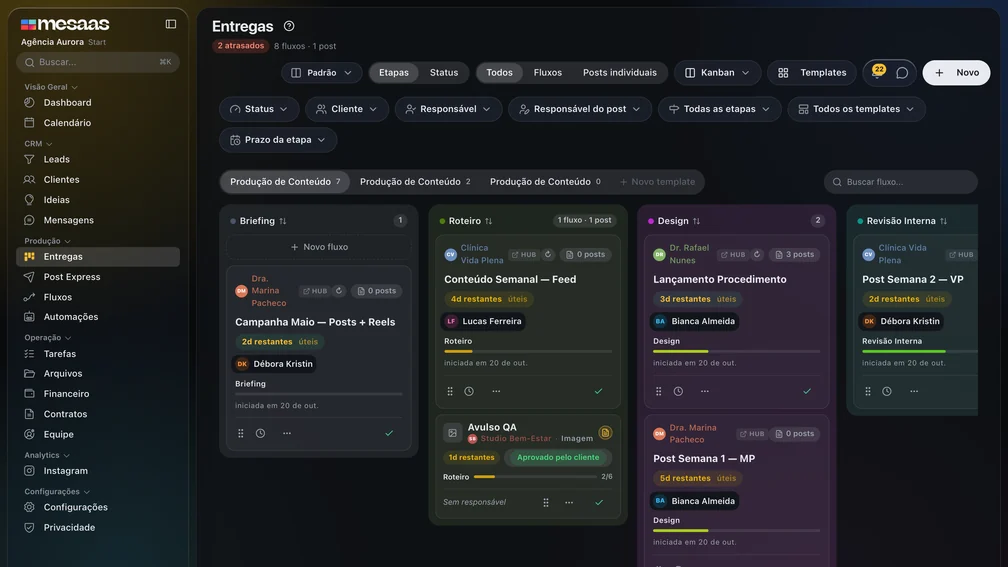
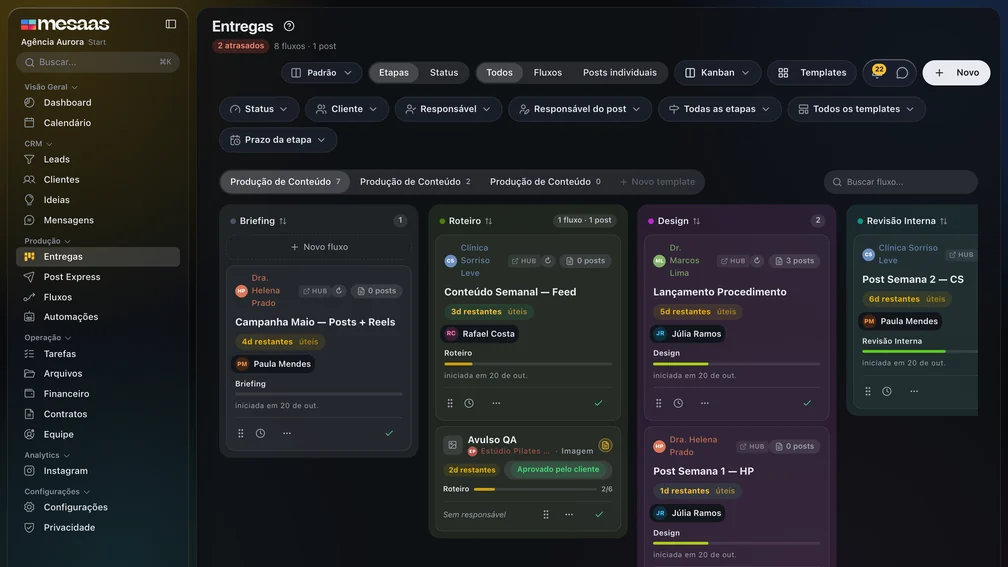
chore(crm): fictional names in the Vidro intro picture; e2e marks the intro seen

diff --git a/e2e/crm/auth.setup.ts b/e2e/crm/auth.setup.ts
@@ -37,5 +37,13 @@ setup('authenticate crm user', async ({ page }) => {
   await expect(page).not.toHaveURL(/workspace-setup/);
   await expect(page.locator('nav#sidebar')).toBeVisible();
 
+  // Mark the Vidro launch intro as seen (VidroIntro, per user per browser): at the Desktop
+  // Chrome viewport it would otherwise open over the first page of every spec.
+  await page.evaluate(() => {
+    const key = Object.keys(localStorage).find((k) => /^sb-.+-auth-token$/.test(k));
+    const userId = key ? JSON.parse(localStorage.getItem(key) ?? '{}').user?.id : null;
+    if (userId) localStorage.setItem(`vidro-intro:${userId}`, '1');
+  });
+
   await page.context().storageState({ path: authFile });
 });
